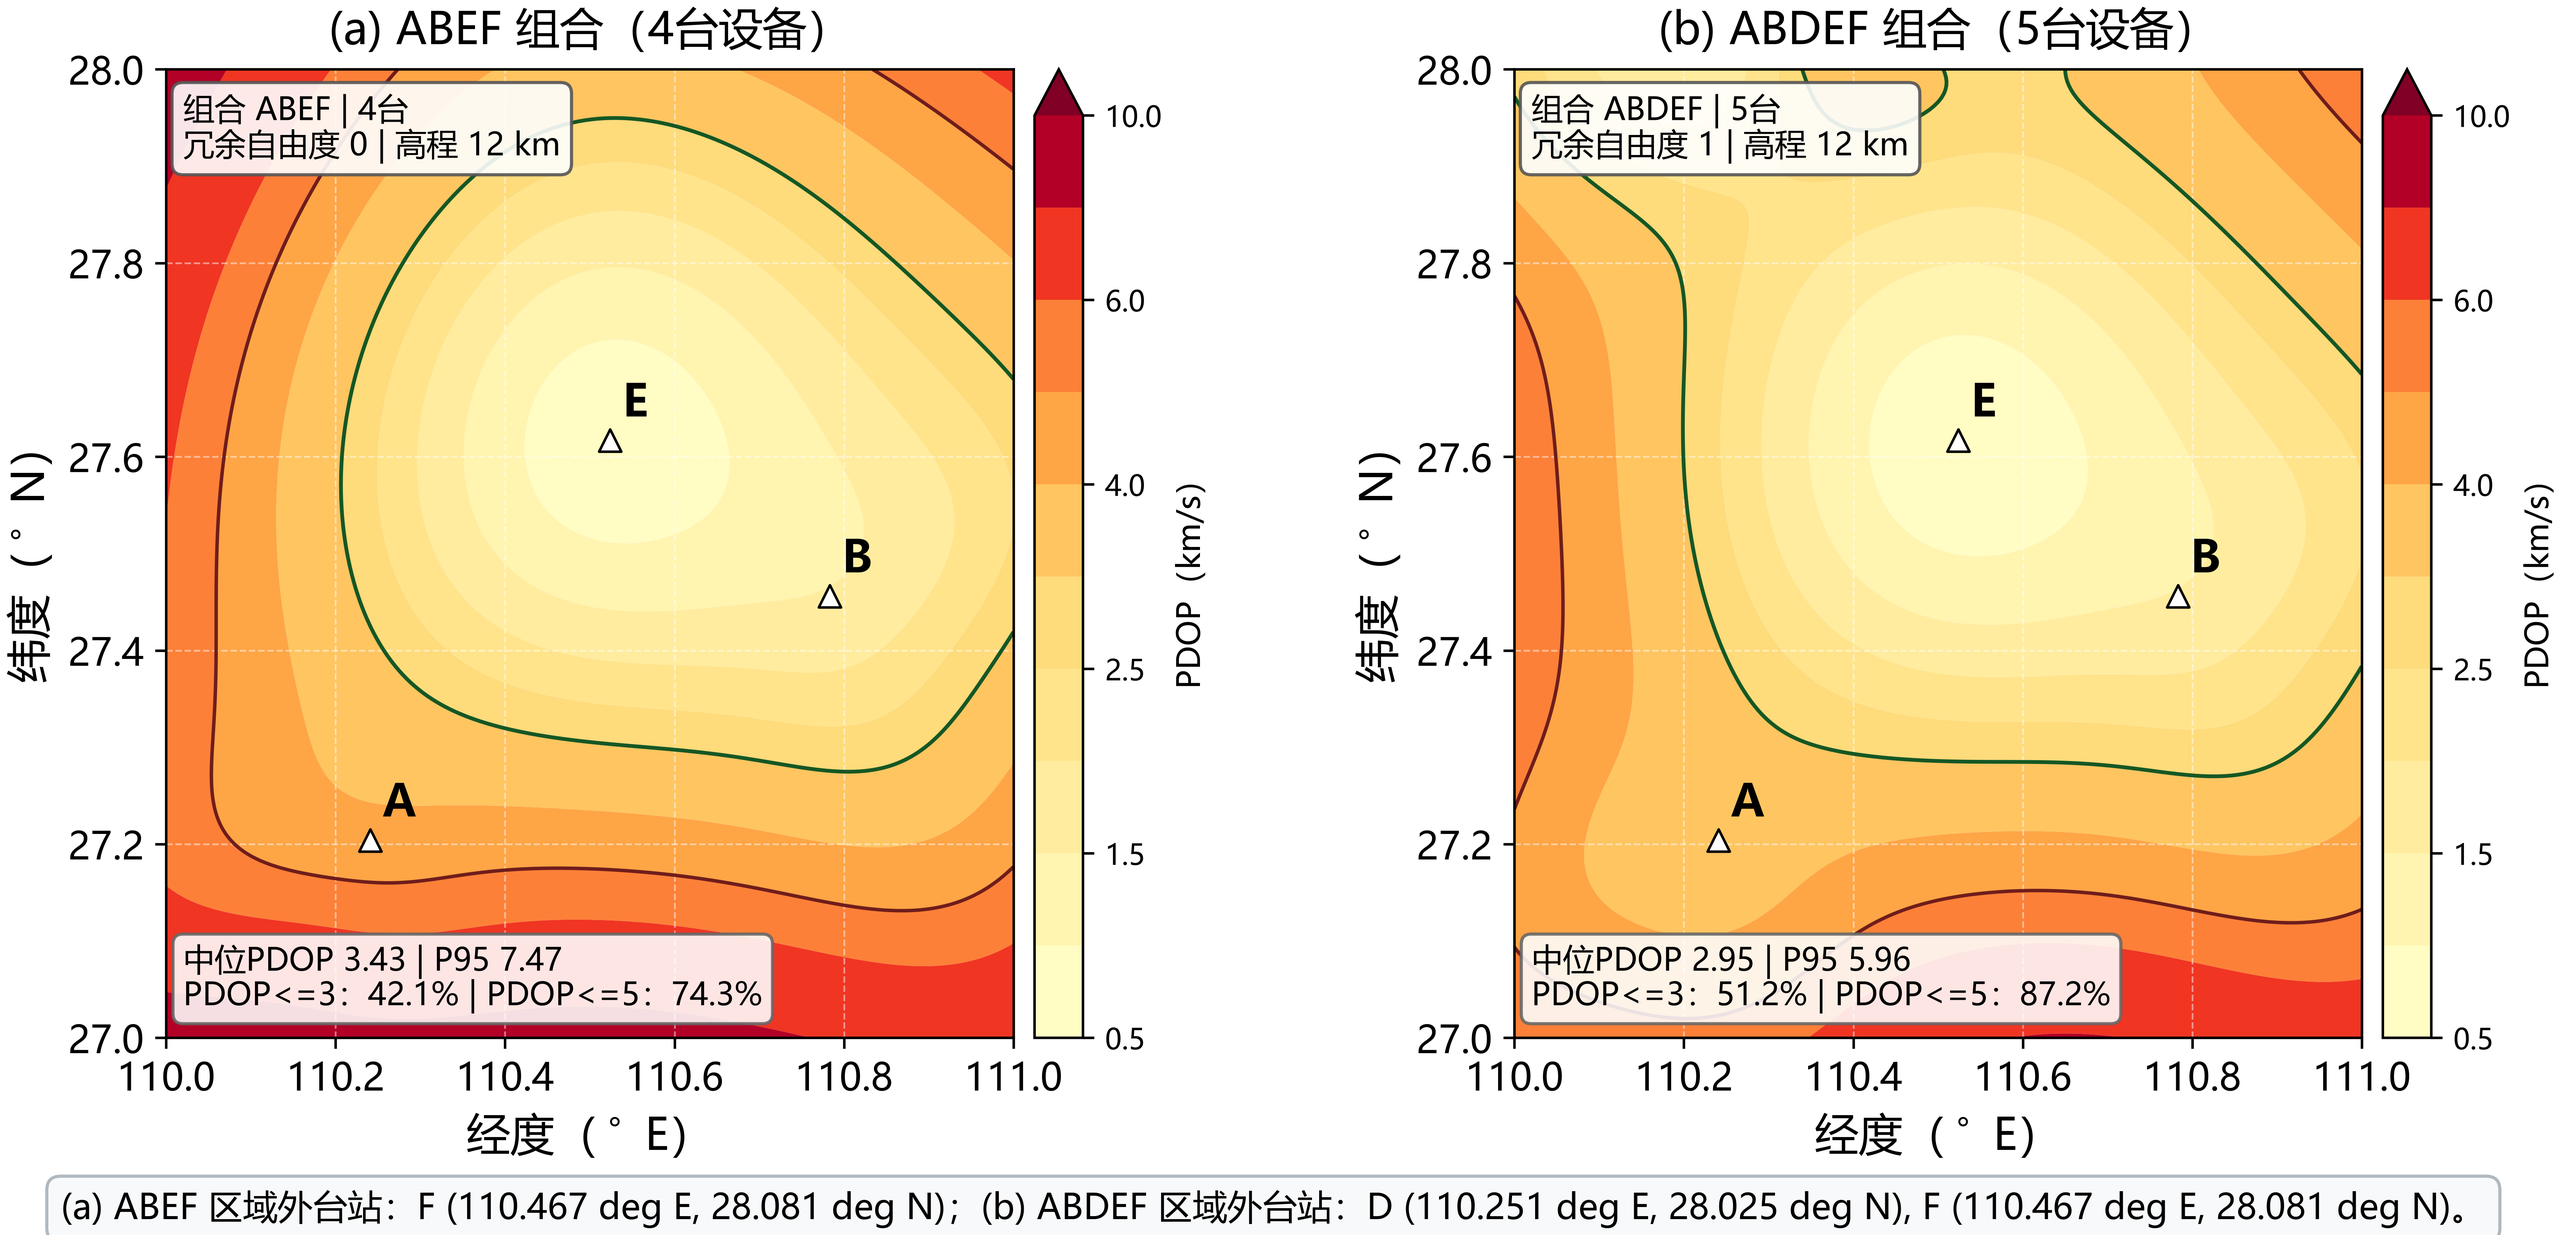
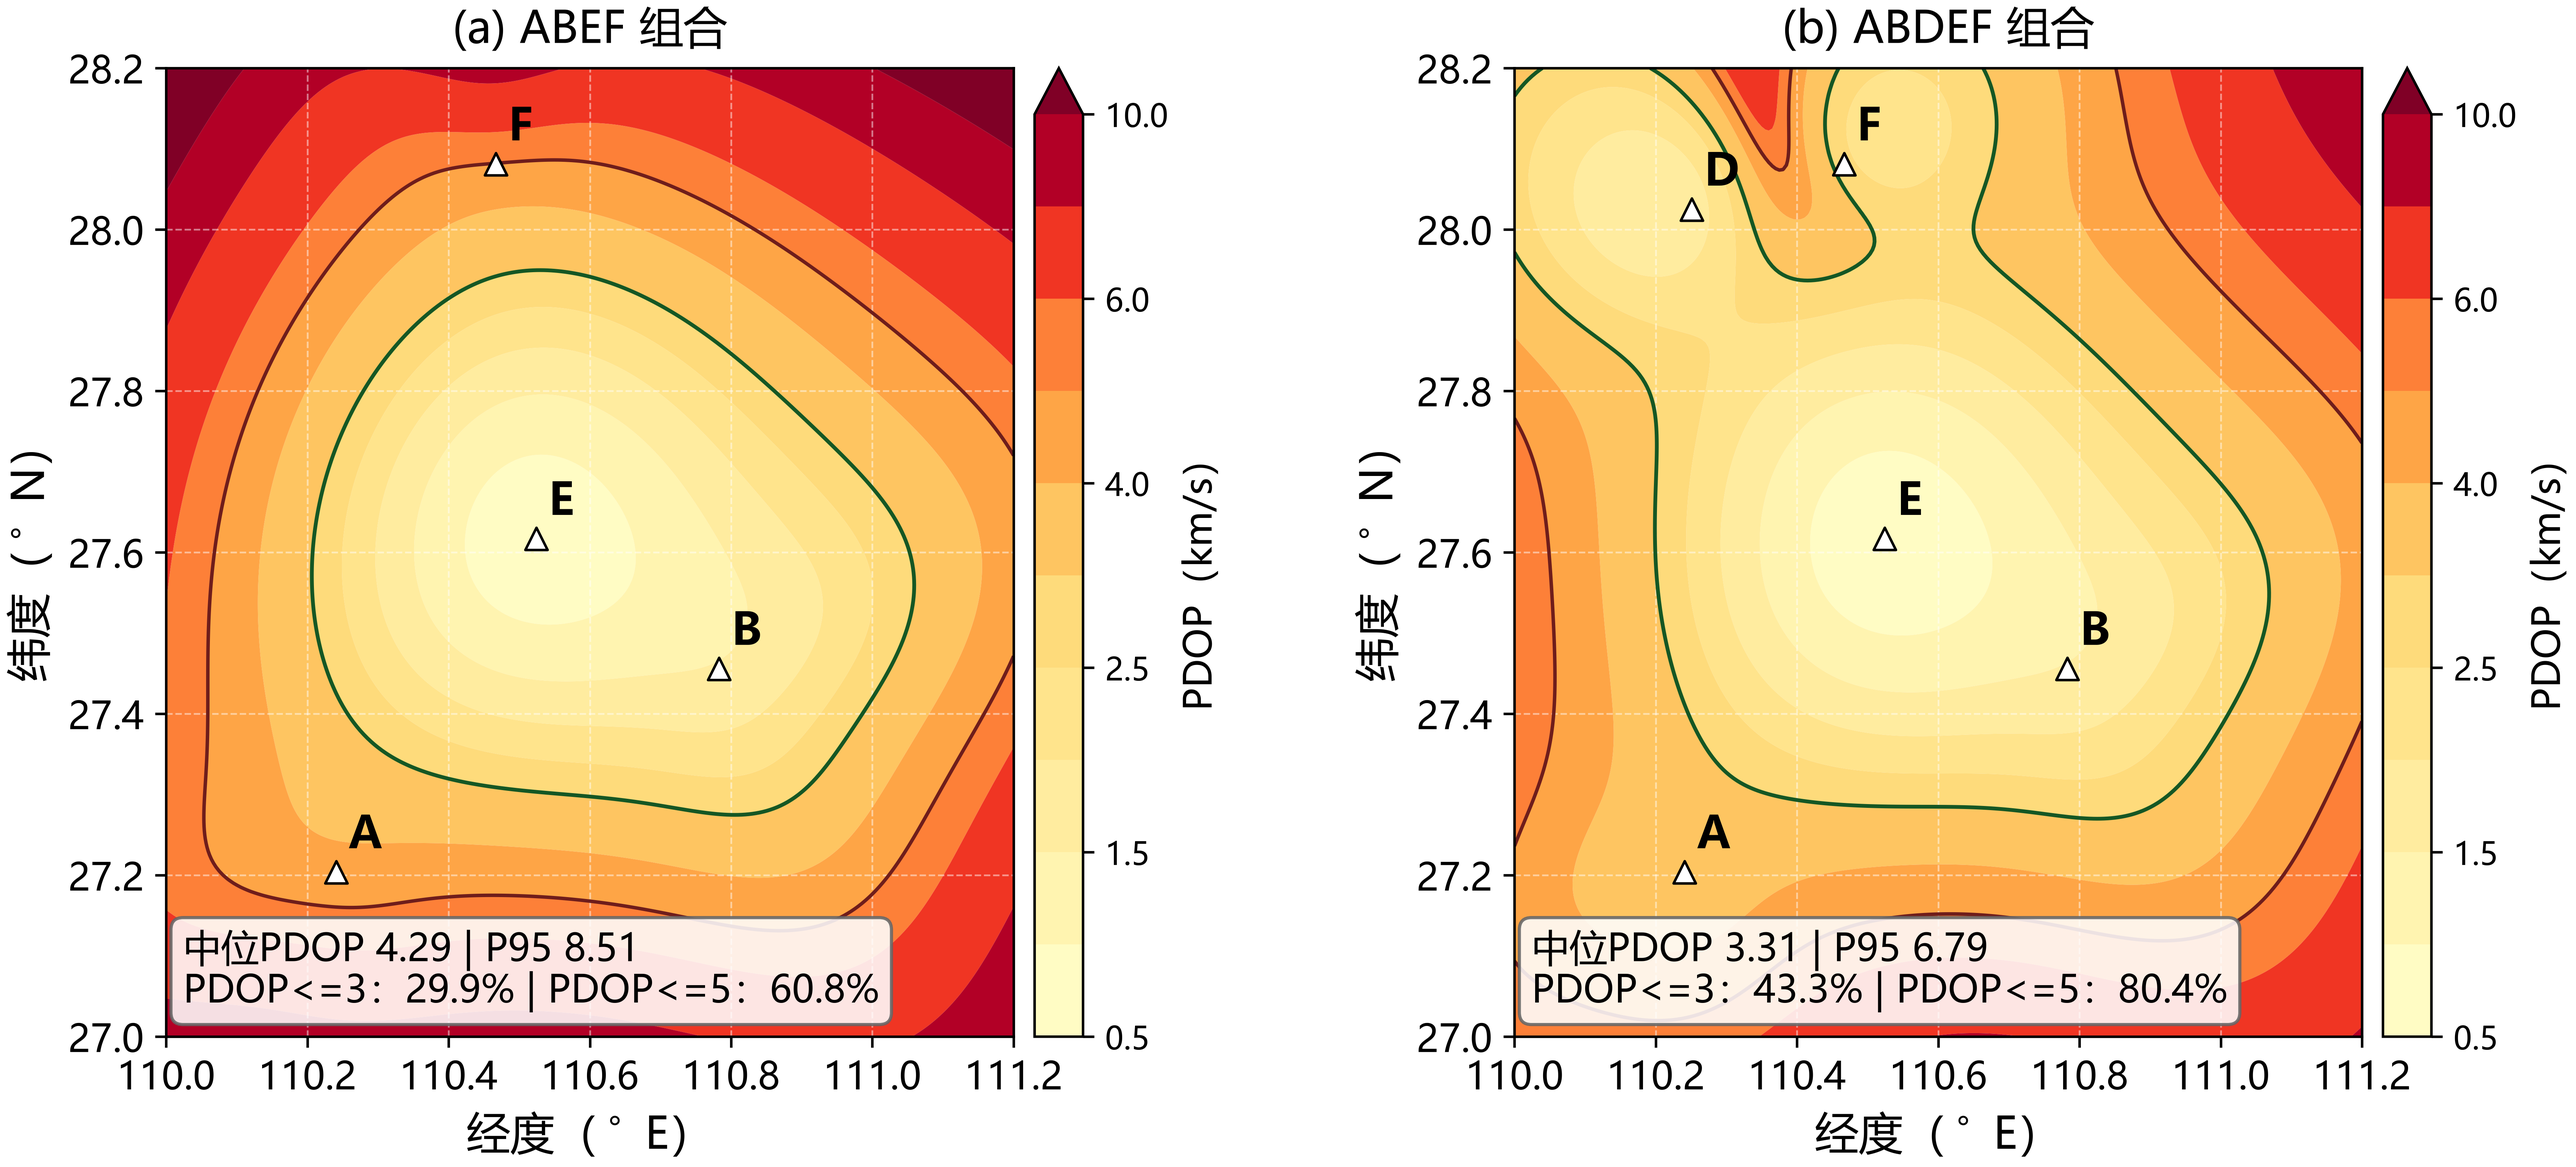
修改论文、关联矩阵、pdop热力图

diff --git a/q2_pdop热力图.py b/q2_pdop热力图.py
@@ -28,8 +28,8 @@ warnings.filterwarnings("ignore")
 OUTPUT_DIR = Path("./output/figs")
 FIGURE_NO = 1  # 按全文图号连续性修改
 
-LON_MIN, LON_MAX = 110.0, 111.0
-LAT_MIN, LAT_MAX = 27.0, 28.0
+LON_MIN, LON_MAX = 110.0, 111.2
+LAT_MIN, LAT_MAX = 27.0, 28.2
 GRID_SIZE = 241
 SOURCE_ALT_KM = 12.0
 
@@ -206,19 +206,6 @@ def draw_subplot(ax: plt.Axes, combination: str,
     ax.tick_params(labelsize=12)
     ax.grid(color="white", linestyle="--", linewidth=0.55, alpha=0.48)
 
-    # 左上角信息框
-    info_text = (
-        f"组合 {combination} | {len(combination)}台\n"
-        f"冗余自由度 {redundancy} | 高程 {SOURCE_ALT_KM:g} km"
-    )
-    ax.text(
-        0.02, 0.975, info_text,
-        transform=ax.transAxes, va="top", ha="left", fontsize=10,
-        bbox=dict(boxstyle="round,pad=0.35", facecolor="white",
-                  edgecolor="#555555", alpha=0.90),
-        zorder=20,
-    )
-
     # 左下角统计信息框
     stat_text = (
         f"中位PDOP {stats['median']:.2f} | P95 {stats['p95']:.2f}\n"
@@ -226,7 +213,7 @@ def draw_subplot(ax: plt.Axes, combination: str,
     )
     ax.text(
         0.02, 0.025, stat_text,
-        transform=ax.transAxes, va="bottom", ha="left", fontsize=10,
+        transform=ax.transAxes, va="bottom", ha="left", fontsize=12,
         bbox=dict(boxstyle="round,pad=0.32", facecolor="white",
                   edgecolor="#666666", alpha=0.88),
         zorder=20,
@@ -244,44 +231,20 @@ def make_combined_figure(lon4, lat4, pdop4, lon5, lat5, pdop5) -> None:
 
     # 左图：4台 ABEF
     contour4 = draw_subplot(axes[0], COMBINATION_4, lon4, lat4, pdop4)
-    axes[0].set_title(f"(a) {COMBINATION_4} 组合（4台设备）", fontsize=14, pad=8)
+    axes[0].set_title(f"(a) {COMBINATION_4} 组合", fontsize=14, pad=8)
 
     # 右图：5台 ABDEF
     contour5 = draw_subplot(axes[1], COMBINATION_5, lon5, lat5, pdop5)
-    axes[1].set_title(f"(b) {COMBINATION_5} 组合（5台设备）", fontsize=14, pad=8)
+    axes[1].set_title(f"(b) {COMBINATION_5} 组合", fontsize=14, pad=8)
 
     # 各子图独立 colorbar
     cbar4 = fig.colorbar(contour4, ax=axes[0], pad=0.02, fraction=0.046)
-    cbar4.set_label("PDOP（km/s）", fontsize=10)
-    cbar4.ax.tick_params(labelsize=9)
+    cbar4.set_label("PDOP（km/s）", fontsize=12)
+    cbar4.ax.tick_params(labelsize=10)
 
     cbar5 = fig.colorbar(contour5, ax=axes[1], pad=0.02, fraction=0.046)
-    cbar5.set_label("PDOP（km/s）", fontsize=10)
-    cbar5.ax.tick_params(labelsize=9)
-
-    # ---- 区域外台站注记（图下单独说明） ----
-    outside_4 = get_outside_stations(COMBINATION_4)
-    outside_5 = get_outside_stations(COMBINATION_5)
-
-    note_lines = []
-    if outside_4:
-        note_lines.append(
-            f"(a) {COMBINATION_4} 区域外台站：{', '.join(outside_4)}"
-        )
-    if outside_5:
-        note_lines.append(
-            f"(b) {COMBINATION_5} 区域外台站：{', '.join(outside_5)}"
-        )
-
-    if note_lines:
-        note_text = "；".join(note_lines) + "。"
-    else:
-        note_text = "注：所有台站均位于计算区域内。"
-
-    fig.text(0.515, 0.09, note_text, ha="center", va="top", fontsize=11,
-             wrap=True,
-             bbox=dict(boxstyle="round,pad=0.4", facecolor="#f8f9fa",
-                       edgecolor="#adb5bd", alpha=0.95))
+    cbar5.set_label("PDOP（km/s）", fontsize=12)
+    cbar5.ax.tick_params(labelsize=10)
 
     # 保存 PNG（600 dpi），路径保持原样
     OUTPUT_DIR.mkdir(parents=True, exist_ok=True)

diff --git a/q3_关联矩阵热力图.py b/q3_关联矩阵热力图.py
@@ -30,6 +30,20 @@ ASSOCIATION = np.array(
     dtype=int,
 )
 
+# 各设备 4 个读数的音爆抵达时间（s，题目问题三数据表），与 ASSOCIATION 行列一一对应。
+ARRIVAL_TIMES = np.array(
+    [
+        [100.767, 164.229, 214.850, 270.065],  # A
+        [92.453, 112.220, 169.362, 196.583],   # B
+        [75.560, 110.696, 156.936, 188.020],   # C
+        [94.653, 141.409, 196.517, 258.985],   # D
+        [78.600, 86.216, 118.443, 126.669],    # E
+        [67.274, 166.270, 175.482, 266.871],   # F
+        [103.738, 163.024, 206.789, 210.306],  # G
+    ],
+    dtype=float,
+)
+
 DEVICES = list("ABCDEFG")
 READING_NUMBERS = [1, 2, 3, 4]
 
@@ -86,7 +100,8 @@ def draw_heatmap(output_dir: Path) -> tuple[Path, Path]:
         spine.set_linewidth(0.8)
         spine.set_color("#555555")
 
-    # 在颜色之外直接标注残骸编号，便于黑白打印和快速核读。
+    # 在颜色之外直接标注该读数的音爆抵达时间（s），便于黑白打印和快速核读。
+    # 颜色仍按所属残骸决定，时间比编号更长，故字号适当缩小。
     text_colors = {1: "white", 2: "white", 3: "#1F2A16", 4: "#3A3300"}
     for i in range(ASSOCIATION.shape[0]):
         for j in range(ASSOCIATION.shape[1]):
@@ -94,11 +109,11 @@ def draw_heatmap(output_dir: Path) -> tuple[Path, Path]:
             ax.text(
                 j,
                 i,
-                f"#{debris_id}",
+                f"{ARRIVAL_TIMES[i, j]:.3f}",
                 ha="center",
                 va="center",
                 color=text_colors[debris_id],
-                fontproperties=_font(16, bold=True),
+                fontproperties=_font(11, bold=True),
             )
 
     legend_handles = [
